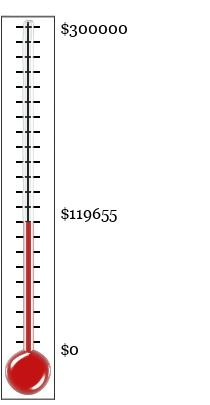
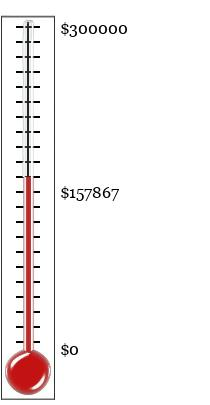
Nov 30, 2022 update: Microsoft - Gold; OpenBSD Amsterdam - Silver; total 157867

Changed region(s): [[0.2857, 0.4444, 0.5714, 0.563], [0.0857, 0.4148, 0.1714, 0.563]]

diff --git a/contributors.html b/contributors.html
@@ -114,14 +114,17 @@ On request we will provide a link to your website for donations of
                 <LI><A HREF=donations.html>Total from smaller donors</A>
             </UL>
         <LI> Gold: $25,000 to $50,000
+            <UL>
+            <LI><A HREF=http://www.microsoft.com>Microsoft Corporation</A>
+            </UL>
         <LI> Silver: $10,000 to $25,000
             <UL>
+                <LI><A HREF=https://openbsd.amsterdam>OpenBSD Amsterdam</A>
                 <LI><A HREF=http://www.genua.de>genua gmbh</A>
             </Ul>
         <LI> Bronze: $5,000 to $10,000
             <UL>
                 <LI><A HREF=https://canary.tools>Thinkst Canary</A>
-                <LI><A HREF=https://openbsd.amsterdam>OpenBSD Amsterdam</A>
             </UL>
     </UL>
 <HR>
